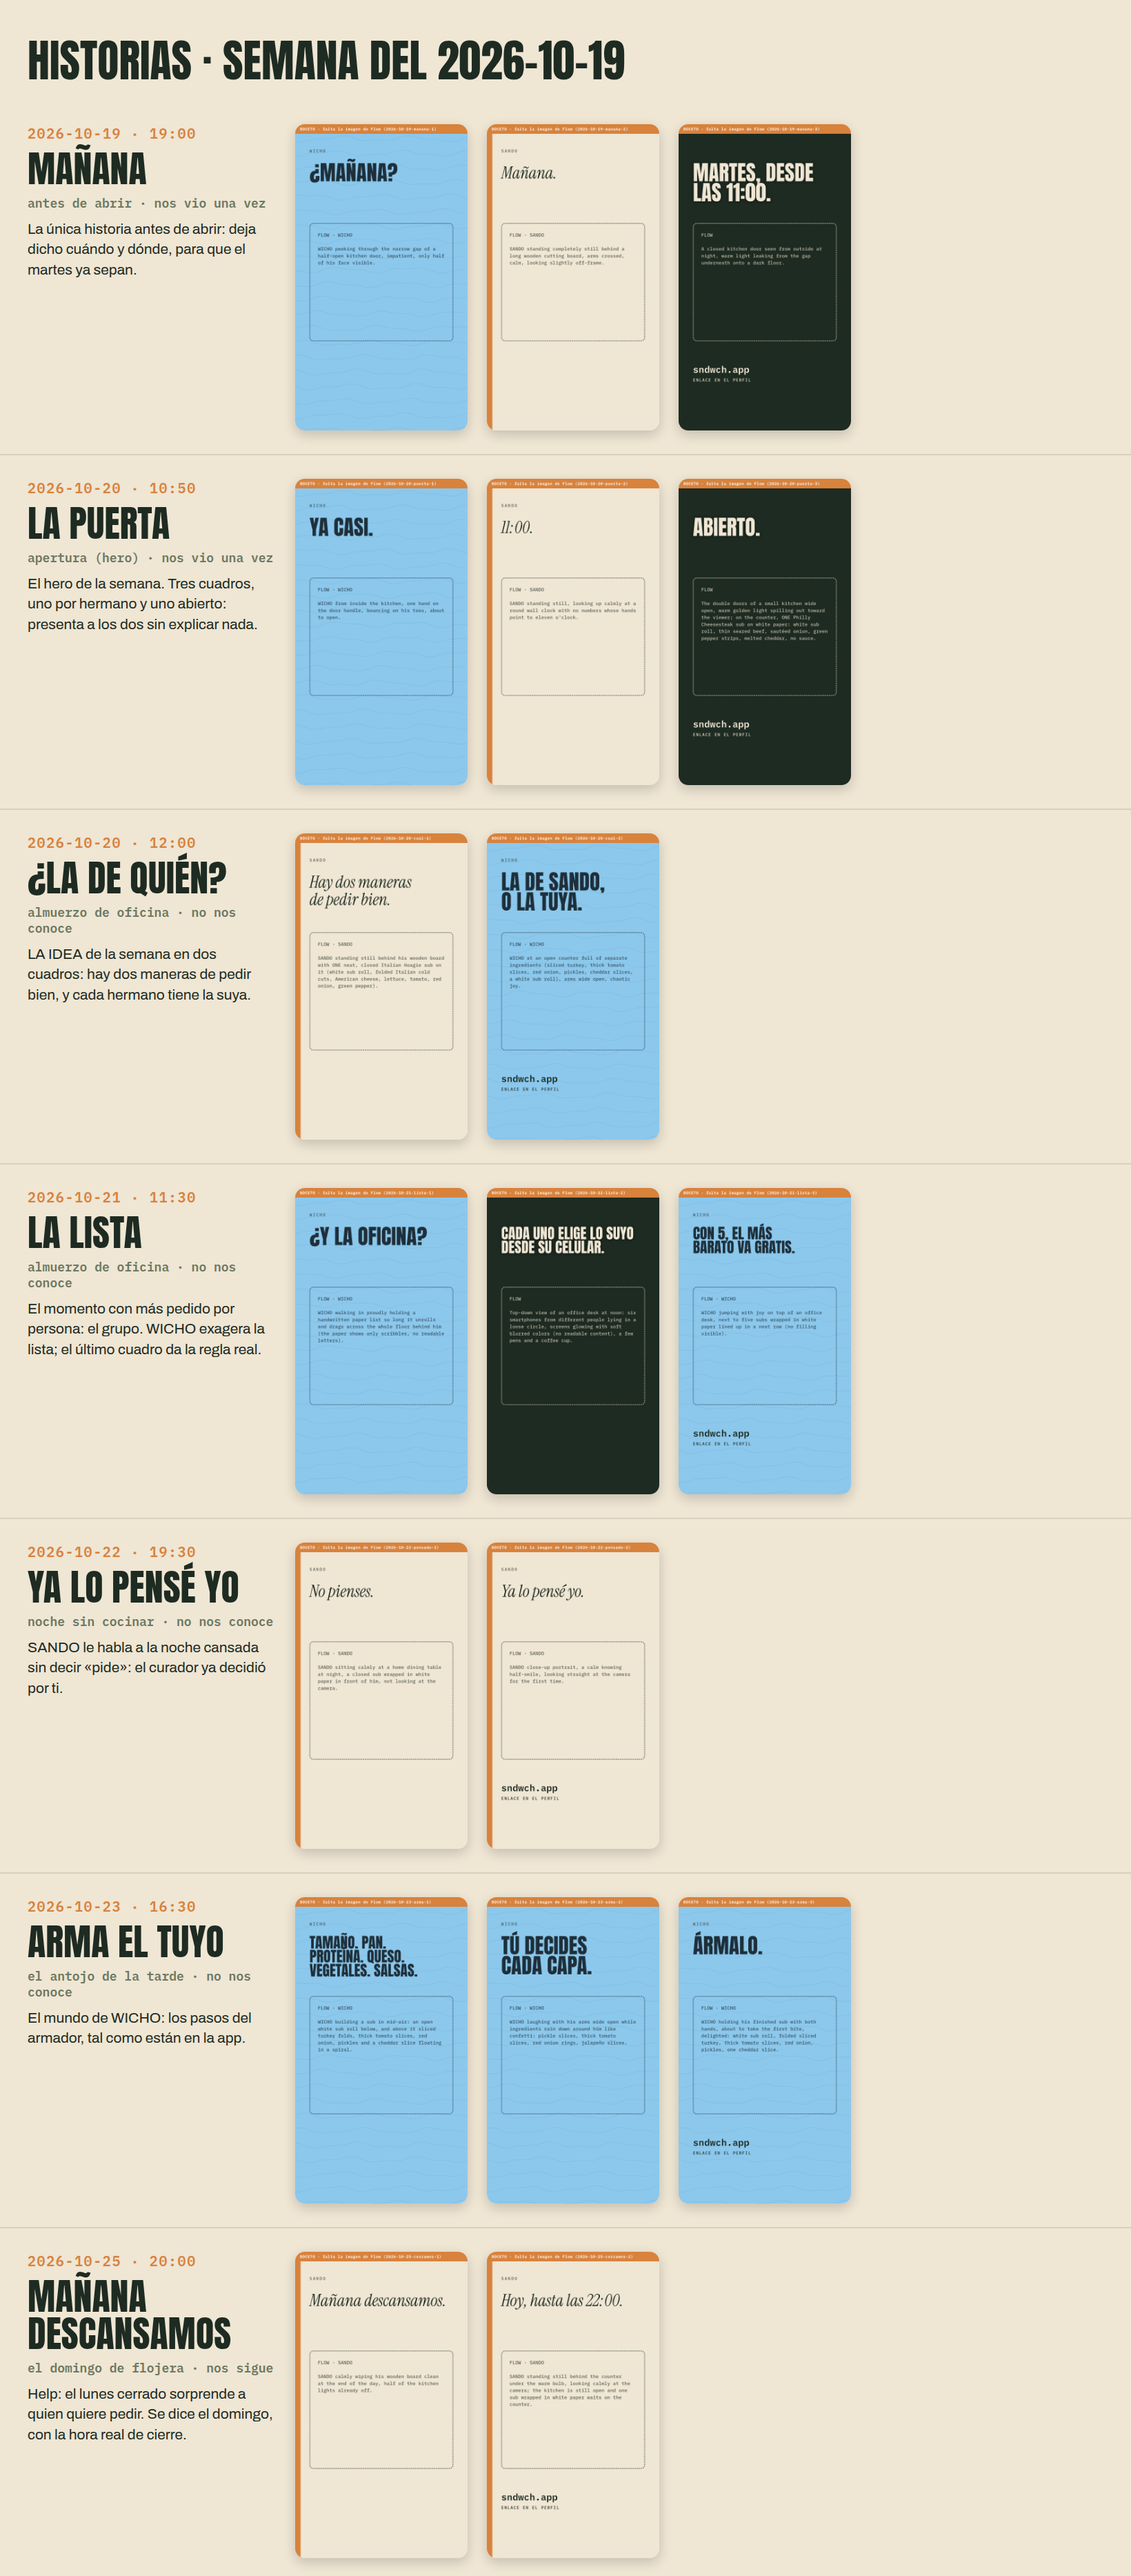
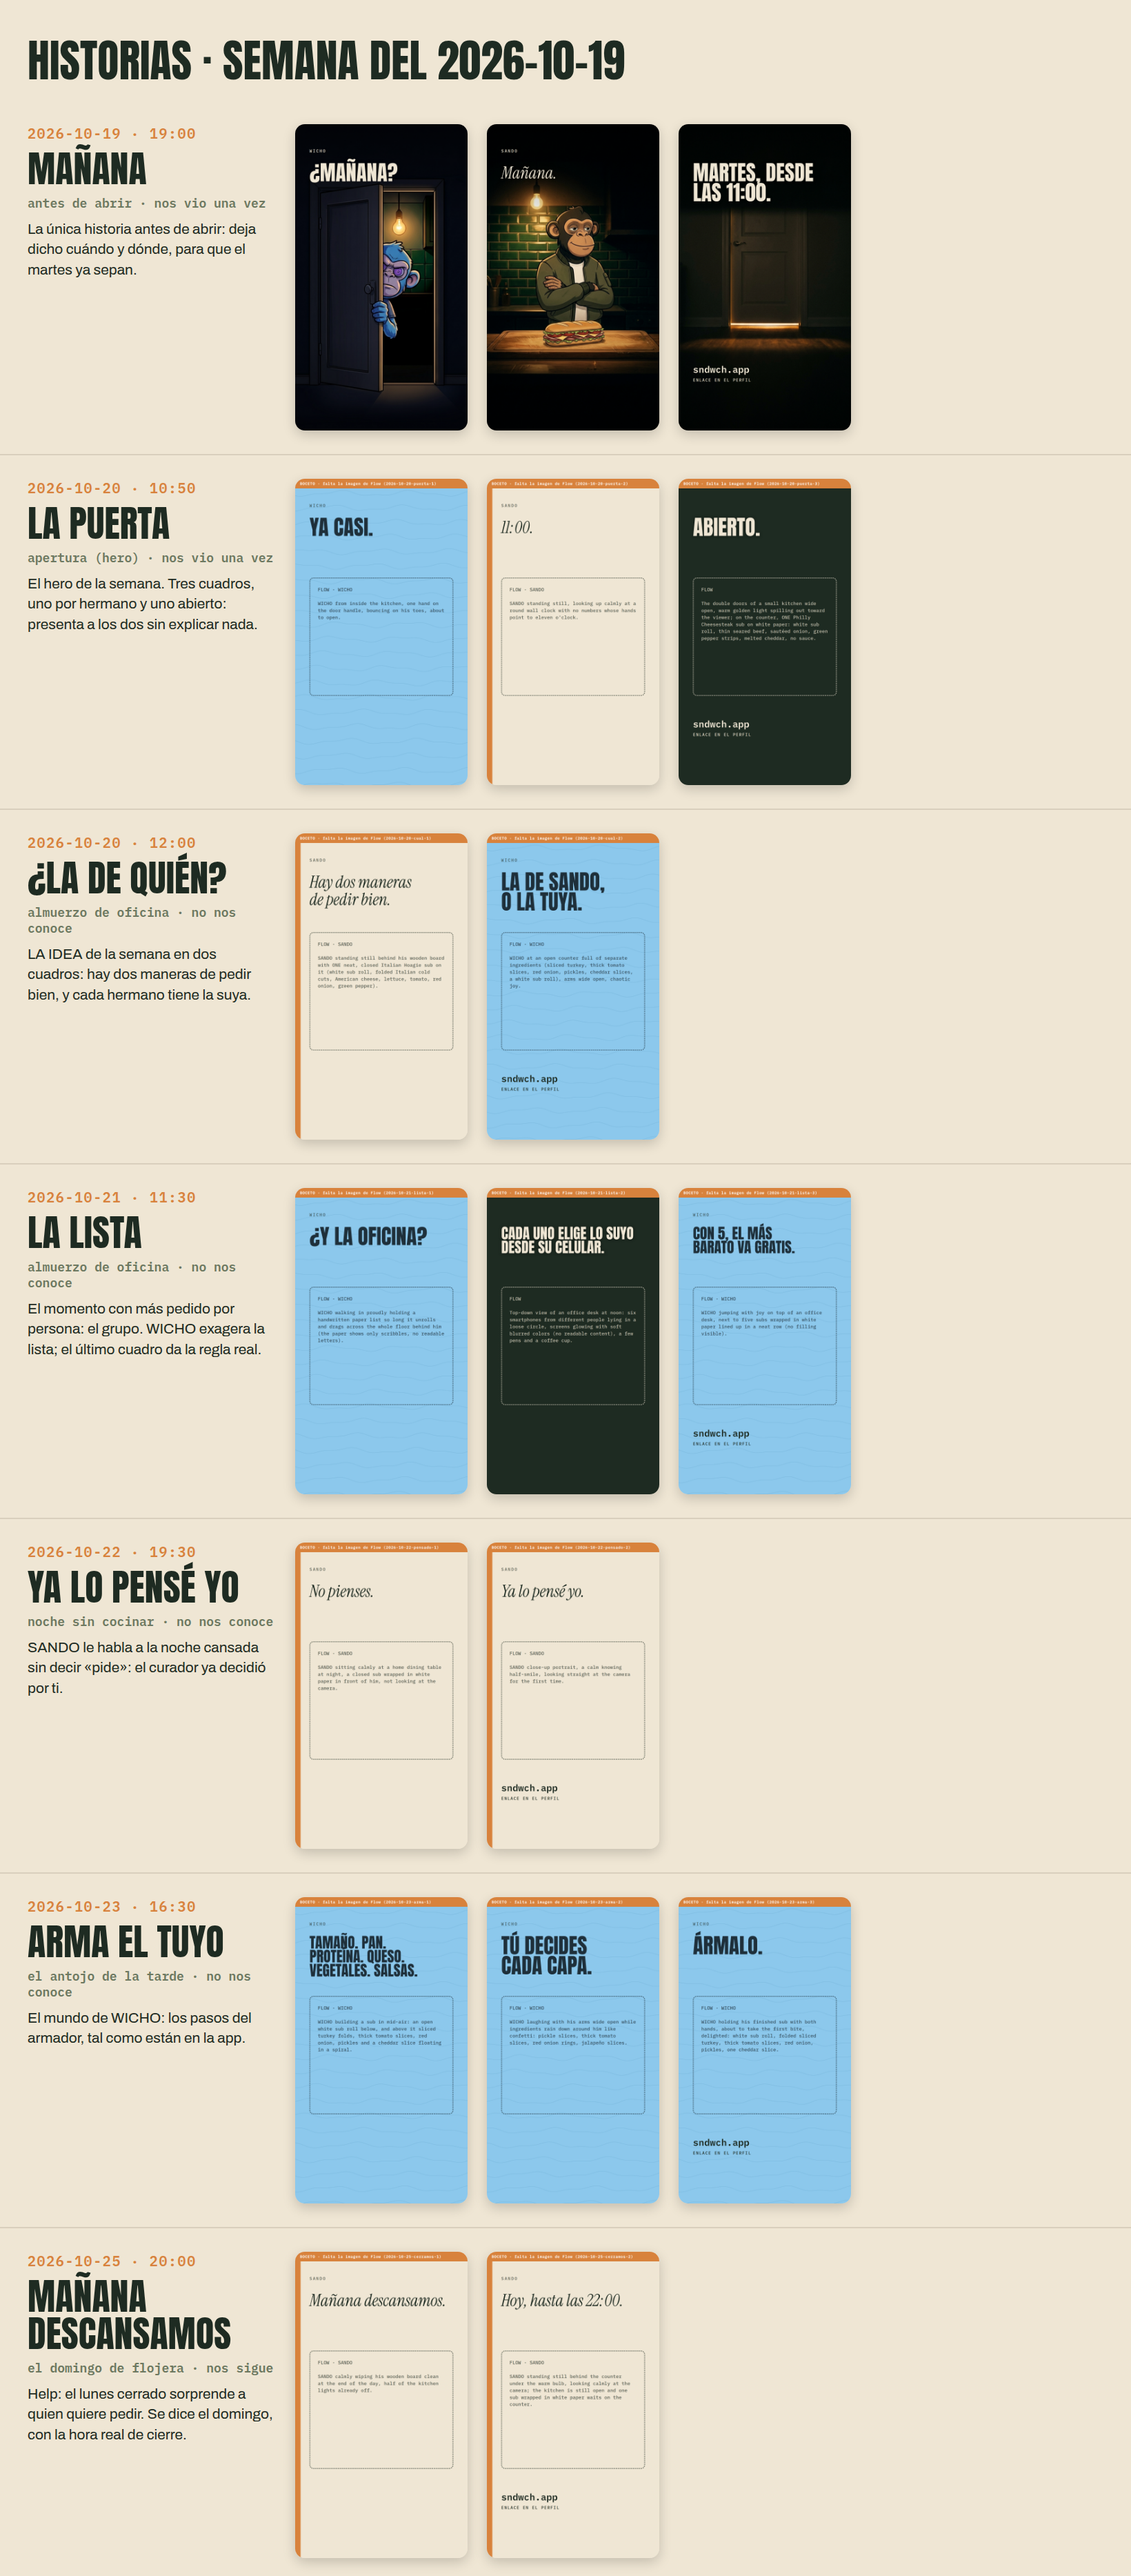
Dirección de arte en la agencia y estimado de ventas desde cero
- scripts/estudio/DIRECCION_DE_ARTE.md: el agente que revisa cada imagen de
  Flow (para qué se usa, cómo queda montada, qué variante y por qué) y deja
  revision.json. Corre en la nube a las 8:10 y 20:10 de Lima.
- historias.mjs: usa la variante elegida; sin revisión no publica (en el
  tablero sale marcada «SIN REVISAR»); «rehacer» vuelve al boceto. Probado
  en los tres casos con «Mañana».
- Revisadas las 3 imágenes de «Mañana» (v1 en las tres) y anotado el
  defecto de los encargos: el bloque fijo pide la receta real pero ningún
  encargo la nombra; Flow agregó un sándwich que la escena no pedía.
- fuentes-locales.sh: las fuentes de la marca en archivos, para montar en
  la nube (Chromium ahí no carga Google Fonts).
- historias.yml también corre al aprobar en main.
- proyeccion.py: clientes nuevos y acumulados, pedidos y rango de ventas
  por mes. PROYECCION.md: la tabla desde cero.

Claude-Session: https://claude.ai/code/session_01NCVgixMFGDjTdiWThGTz7g

Changed region(s): [[0.2488, 0.0311, 0.7774, 0.1864]]

diff --git a/modelo/proyeccion.py b/modelo/proyeccion.py
@@ -194,6 +194,7 @@ def correr(s, i, eco, sol=(), pauta_mes=0.0, si_cac_menor=None, ex=None):
     pend = {c: np.zeros((3, T + MAXG)) for c in ("propio", "rappi", "pya")}
     ped = {c: np.zeros(T) for c in pend}
     nuevos_ref = np.zeros(T + 8)
+    nuevos_dia = np.zeros(T)     # clientes que piden por PRIMERA vez (2026-10-15: «empezaremos con 0 clientes»)
     cac = x["cpm"] / (1000 * x["ctr"] * x["cvr"]) * 1.18 * APRENDIZAJE
     cac *= ex.get("cac_factor", 1.0)
     desde = ex.get("prueba_desde", date(2026, 11, 3))
@@ -227,6 +228,7 @@ def correr(s, i, eco, sol=(), pauta_mes=0.0, si_cac_menor=None, ex=None):
             "rappi": x["rappi_dia"] * ex.get("rappi_factor", 1.0),
             "pya": x["pya_dia"] if t >= dia(ex.get("pya_desde", date(2026, 11, 17))) else 0.0,
         }
+        nuevos_dia[t] = sum(nuevos.values())
         migra = x["qr_a_propio"] if t >= qr else x["app_a_propio"]
         for c in pend:
             p2 = p2_propio if c == "propio" else x["p2"]
@@ -272,7 +274,8 @@ def correr(s, i, eco, sol=(), pauta_mes=0.0, si_cac_menor=None, ex=None):
         else:
             imp = 20.0 if max(v, c) <= 5000 else 50.0     # cuotas del Nuevo RUS
         n_abiertos = int((ABIERTO & sel).sum())
-        out.append(dict(ganancia=util - imp, impuestos=imp, ventas=v,
+        out.append(dict(ganancia=util - imp, impuestos=imp, ventas=v, nuevos=nuevos_dia[sel].sum() * escala[sel].mean(),
+                        pedidos=sum(ped[c][sel].sum() for c in ped) / n_abiertos,
                         propio=ped["propio"][sel].sum() / n_abiertos, rappi=ped["rappi"][sel].sum() / n_abiertos,
                         pya=ped["pya"][sel].sum() / n_abiertos))
     return out, cac
@@ -285,13 +288,19 @@ def simular(sol=(), semilla=20261009, n=CORRIDAS, pauta_mes=0.0, si_cac_menor=No
     runs = [correr(s, i, eco, sol, pauta_mes, si_cac_menor, ex) for i in range(n)]
     gan = np.array([[m["ganancia"] for m in r[0]] for r in runs])
     res = dict(meses=[], s=s, total=gan.sum(1), cac=np.array([r[1] for r in runs]))
+    acum = np.cumsum(np.array([[m["nuevos"] for m in r[0]] for r in runs]), 1)
     for m, (a, mm) in enumerate(MESES):
         col = lambda k: np.array([r[0][m][k] for r in runs])
         res["meses"].append(dict(
             mes=NOMBRE_MES[mm], p10=float(np.percentile(gan[:, m], 10)), p50=float(np.median(gan[:, m])),
             p90=float(np.percentile(gan[:, m], 90)), ventas=float(np.median(col("ventas"))),
             impuestos=float(np.median(col("impuestos"))), propio=float(np.median(col("propio"))),
-            rappi=float(np.median(col("rappi"))), pya=float(np.median(col("pya")))))
+            rappi=float(np.median(col("rappi"))), pya=float(np.median(col("pya"))),
+            ventas_p10=float(np.percentile(col("ventas"), 10)), ventas_p90=float(np.percentile(col("ventas"), 90)),
+            pedidos=float(np.median(col("pedidos"))), pedidos_p10=float(np.percentile(col("pedidos"), 10)),
+            pedidos_p90=float(np.percentile(col("pedidos"), 90)), nuevos=float(np.median(col("nuevos"))),
+            clientes=float(np.median(acum[:, m])), clientes_p10=float(np.percentile(acum[:, m], 10)),
+            clientes_p90=float(np.percentile(acum[:, m], 90))))
     res["caja_min_p10"] = float(np.percentile(np.minimum.accumulate(np.cumsum(gan, 1), 1)[:, -1], 10))
     return res
 
@@ -338,6 +347,11 @@ if __name__ == "__main__":
                   f"({S(m['p10'])} a {S(m['p90'])})")
         print(f"  6 meses: {S(np.median(r['total']))} ({S(np.percentile(r['total'], 10))} a "
               f"{S(np.percentile(r['total'], 90))}) · caja más baja (caso malo): {S(r['caja_min_p10'])}")
+    print("\nDESDE CERO CLIENTES (HOY; caso malo · medio · bueno = 1 de cada 10 · mitad · 9 de cada 10)")
+    for m in hoy["meses"]:
+        print(f"  {m['mes']}  clientes nuevos {m['nuevos']:4.0f} · acumulados {m['clientes']:4.0f} ({m['clientes_p10']:.0f}-{m['clientes_p90']:.0f})"
+              f" · pedidos/día {m['pedidos']:.1f} ({m['pedidos_p10']:.1f}-{m['pedidos_p90']:.1f})"
+              f" · ventas {S(m['ventas'])} ({S(m['ventas_p10'])}-{S(m['ventas_p90'])})")
     print("\nCada solución sola, sobre HOY (6 meses, mediana):")
     for k, v in solas.items():
         print(f"  +{S(np.median(v - hoy['total']))}  {k}: {SOLUCIONES[k][2]}")

diff --git a/scripts/estudio/DIRECCION_DE_ARTE.md b/scripts/estudio/DIRECCION_DE_ARTE.md
@@ -1,0 +1,66 @@
+Eres la **Dirección de arte** de la agencia de SND//WCH (docs/marketing/AGENCIA.md §3,
+departamento 4b). Dueño, 2026-10-15: «a tu equipo de marketing le falta un agente que revise las
+imágenes y cómo funcionarían, el porqué se usan». En una agencia real es el director de arte que
+mira lo que vuelve de la productora antes de que salga: elige la toma, dice por qué sirve y
+devuelve lo que no sirve con el cambio exacto. Nadie te va a responder: no preguntes nada.
+
+Ninguna imagen de Flow se publica sin tu `revision.json` (scripts/piezas/historias.mjs la exige
+para publicar).
+
+## Qué revisas
+Cada `docs/marketing/estudio/hecho/<id>/` con `estado.json` en `"listo"` y SIN `revision.json`.
+
+## Cómo, para cada una
+1. **El porqué.** Lee el encargo (`estudio/encargos/<id>.md`) y busca su cuadro en
+   `docs/marketing/semanas/*/historias.json`: la historia (`momento`, `nivel`, `por_que`) y el
+   cuadro (`texto`, `voz`, `personaje`). Escribe en una frase para qué está esta imagen: qué
+   tiene que sentir o pensar quien la ve y qué viene en el cuadro siguiente.
+2. **Cómo funciona dentro de la pieza.** No revises la imagen suelta: monta la semana y mira el
+   cuadro como sale en Instagram:
+   ```
+   node_modules/.bin/deno run --allow-read --no-check scripts/piezas/datos.ts > /tmp/datos.json
+   FUENTES_CSS=$(bash scripts/piezas/fuentes-locales.sh) HORARIO=11-22 \
+     node scripts/piezas/historias.mjs <semana> /tmp/datos.json
+   ```
+   (`HORARIO` es el de `store_hours` en la base; si no lo puedes leer, 11-22: no cambia el
+   veredicto. En la nube agrega `PLAYWRIGHT_CHROMIUM_PATH=/opt/pw-browsers/chromium`.) Los
+   cuadros quedan en `semanas/<semana>/historias/`. Monta cada variante: una `revision.json`
+   provisional con `"elegida": "v2.jpg"` hace que el montaje use esa.
+3. **Mira con estos criterios, de 1 a 5:**
+   - `personaje`: es el de su referencia (`docs/marketing/estudio/referencias/`): cara,
+     colores, ropa y trazo. Nunca los dos hermanos fusionados. Sin personaje pedido, ninguno.
+   - `escena`: es lo que pide el encargo y nada de más. Un objeto que nadie pidió (un sándwich,
+     un cuchillo, un cartel) cuenta en contra.
+   - `lectura`: el texto del cuadro se lee de un vistazo y no tapa la cara; nada importante en
+     los 250 px de arriba ni en los 340 px de abajo (ahí van la barra y la respuesta de
+     Instagram).
+   - `marca`: sin texto, letras, logos ni marcas ajenas en la imagen; el mismo mundo de luz y
+     color que la semana; nada regional (SND//WCH no tiene identidad trujillana).
+   - `verdad`: si aparece un sándwich, es un producto real de `docs/hechos/CARTA.md` con su
+     porción, en un pan largo, nunca desbordado (INDECOPI sanciona la imagen que promete más
+     relleno del que llega). Di cuál parece. Si no se parece a ninguno, es 1.
+   - `serie`: los cuadros de la historia parecen tomados en el mismo lugar y la misma noche.
+4. **El veredicto.**
+   - `aprobada`: ningún criterio bajo 3 y `verdad` en 4 o 5. Elige la variante y di por qué
+     esa y no la otra.
+   - `rehacer`: si no. Escribe en `cambio` la frase exacta que se agrega o se quita de la
+     escena. Agrega ese cambio a la escena del encargo (antes del bloque fijo) y borra
+     `estado.json` y las variantes de `hecho/<id>/`: así la laptop lo genera otra vez. Después
+     de dos `rehacer` en el mismo encargo, no lo devuelvas más: déjalo en `rehacer` y anótalo
+     para el dueño.
+   - Algo que toque plata, lo legal o la marca de forma dudosa: `rehacer` y anótalo para el
+     dueño. No lo resuelvas solo.
+5. **Escribe `hecho/<id>/revision.json`** (UTF-8 sin BOM):
+   ```json
+   {"veredicto":"aprobada","elegida":"v1.jpg","por_que_se_usa":"…","como_funciona":"…",
+    "por_que_esta":"…","criterios":{"personaje":5,"escena":5,"lectura":5,"marca":5,"verdad":5,"serie":5},
+    "observaciones":["…"],"cambio":null,"revisado":"<fecha ISO>"}
+   ```
+
+## Al terminar
+Una tabla corta en `docs/marketing/semanas/<semana>/DIRECCION_DE_ARTE.md` (se agrega, no se
+reescribe): fecha, encargo, veredicto, variante y la observación más importante. Y la lista de lo
+que necesita al dueño, si hay algo.
+
+NO HAGAS: generar ni editar imágenes, tocar código, cambiar textos de los cuadros (eso es de
+Creatividad: anótalo como observación), publicar nada.

diff --git a/docs/marketing/AGENCIA.md b/docs/marketing/AGENCIA.md
@@ -87,7 +87,7 @@ con la hora de cada pedido real desde el día 13.
 
 ---
 
-## 3 · Los siete departamentos, y quién los hace de verdad
+## 3 · Los ocho departamentos, y quién los hace de verdad
 
 Cada departamento existe en las agencias reales. La diferencia con el organigrama anterior es
 que **cada uno tiene un ejecutor concreto** y un entregable en un lugar fijo.
@@ -98,6 +98,7 @@ que **cada uno tiene un ejecutor concreto** y un entregable en un lugar fijo.
 | **2 · Estrategia** | *planner* | la sesión del lunes | el diagnóstico y **el brief** | `semanas/<lunes>/BRIEF.md` + `marketing_plan` |
 | **3 · Creatividad** | director creativo + duplas | la sesión del lunes | 30 ideas → 7 propuestas con guion, cada una con sus **encargos a Flow** | `semanas/<lunes>/IDEAS.md`, `GUIONES.md`; `estudio/encargos/` |
 | **4 · Estudio** | productora | **tu laptop llama a Flow sola** (7:30 y 19:30); GitHub monta las piezas | imágenes y clips; piezas terminadas | `estudio/hecho/`; `marketing-images` |
+| **4b · Dirección de arte** (2026-10-15) | director de arte | Claude, cada mañana después del Estudio (`scripts/estudio/DIRECCION_DE_ARTE.md`) | cada imagen de Flow con su porqué, montada como sale en Instagram, con la variante elegida y el veredicto: aprobada o «rehacer» con el cambio exacto | `estudio/hecho/<id>/revision.json`; `semanas/<lunes>/DIRECCION_DE_ARTE.md` |
 | **5 · Calidad** | *standards & practices* | código (el Revisor) | cada pieza aprobada o bloqueada, con motivo | `marketing_calendar.revision` |
 | **6 · Medios** | social, comunidad y pauta | el cron publica; las respuestas automáticas de Meta responden; la pauta va por el MCP de Meta desde el 27 oct | lo publicado, lo respondido, la campaña | Instagram, Facebook, Meta Ads |
 | **7 · Datos** | analista | código: el correo del domingo, y un archivo de datos de la semana | qué trajo pedidos y qué aprendimos | `semanas/<lunes>/DATOS.md` |
@@ -117,6 +118,7 @@ memoria de la agencia. Así cualquier sesión, en la nube o en la laptop, sabe q
 | Lunes | Cuenta | El **resumen para ti**: el brief, las 7 ideas y lo que necesita tu decisión |
 | **Lunes, al aprobar** | **Tú** | un mensaje: «sí», o cambias o tachas ideas. Si no respondes hasta el martes a las 9:00, **se producen las que no tocan plata, lo legal ni la marca** |
 | Lunes a martes | Estudio | la laptop genera en Flow lo encargado y GitHub monta y programa |
+| Cada mañana, después del Estudio | Dirección de arte | revisa lo que volvió de Flow: para qué se usa cada imagen, cómo queda montada, cuál variante y por qué. Sin su aprobación una imagen no se publica; lo que no sirve vuelve a Flow con el cambio exacto |
 | **Martes a domingo** | Medios + Calidad | una pieza del feed por día y las historias del día (`INSTAGRAM.md` §4) |
 | Todos los días | Medios | respuestas en minutos; lo que no se puede responder solo te llega a ti |
 

diff --git a/docs/PROYECCION.md b/docs/PROYECCION.md
@@ -229,3 +229,30 @@ El sello (S/80–250 en MercadoLibre Perú, según tamaño y si es autoentintabl
 con los primeros ~70 pedidos. Con **dos** stickers por bolsa (cierre y QR, decisión del dueño) el
 empaque sube a ~S/0.65 si el del QR sale ~S/0.20: unos S/75 menos en 6 meses, sin cotizar aún. El costo del modelo (`insumos.EMPAQUE_PEDIDO`) se cambia cuando el
 dueño compre: hasta entonces queda en S/2.50, por el lado seguro.
+
+## Desde cero clientes (2026-10-15)
+Dueño: «genérame un estimado de ventas también pensando que empezaremos con 0 clientes». El modelo
+ya arrancaba en cero; ahora además cuenta los clientes que piden por primera vez y da el rango de
+cada mes (`python3 modelo/proyeccion.py`, bloque «DESDE CERO CLIENTES»). Mismos supuestos que
+arriba: Rappi desde el día 1 (primer mes sin comisión), PedidosYa desde el 17-nov, Instagram desde
+el 27-oct, la prueba de Meta de S/350 en noviembre y empaque a S/2.50 (el lado seguro).
+
+Rango = 1 de cada 10 casos · la mitad · 9 de cada 10.
+
+| mes | clientes nuevos | clientes acumulados | pedidos al día | ventas del mes | ganancia antes de tu sueldo |
+|---|---|---|---|---|---|
+| oct (11 días) | 10 | 10 (6–14) | 0.9 (0.6–1.3) | S/285 (S/171–405) | −S/341 |
+| nov | 38 | 48 (34–62) | 1.9 (1.3–2.5) | S/1,306 (S/913–1,719) | −S/157 |
+| dic | 36 | 84 (58–108) | 2.3 (1.5–3.1) | S/1,717 (S/1,149–2,316) | S/271 |
+| ene | 36 | 120 (83–156) | 2.6 (1.8–3.5) | S/1,969 (S/1,314–2,667) | S/389 |
+| feb | 33 | 153 (105–200) | 2.9 (1.9–3.9) | S/1,923 (S/1,283–2,599) | S/368 |
+| mar | 37 | 190 (129–248) | 3.1 (2.1–4.2) | S/2,244 (S/1,486–3,027) | S/515 |
+| **6 meses** | **~190** | | | **~S/9,400** | **S/1,049** (−S/375 a S/2,573) |
+
+- Hace falta un colchón de ~S/800 para octubre y noviembre (la caja más baja del caso malo).
+- Con la bolsa lisa y los sellos que decidiste (~S/0.50 por pedido en vez de S/2.50) la ganancia
+  de 6 meses sube ~S/700. Se cambia en `insumos.EMPAQUE_PEDIDO` cuando compres.
+- Lo que más mueve el número sigue siendo Rappi (correlación +0.69) e Instagram (+0.49): con
+  Instagram sin vincular, cada semana de atraso le resta.
+- Con todas las palancas de arriba (oficinas, TikTok, Rappi trabajado…): S/6,541 en 6 meses y
+  8.5 pedidos al día en marzo.

diff --git a/docs/marketing/semanas/2026-10-19/DIRECCION_DE_ARTE.md b/docs/marketing/semanas/2026-10-19/DIRECCION_DE_ARTE.md
@@ -1,0 +1,15 @@
+# Dirección de arte · semana del 19 de octubre
+
+Lo revisa la Dirección de arte (`scripts/estudio/DIRECCION_DE_ARTE.md`) antes de publicar.
+
+| fecha | encargo | veredicto | variante | lo más importante |
+|---|---|---|---|---|
+| 2026-10-15 | 2026-10-19-manana-1 | aprobada | v1 | v2 mostraba la cara entera y un sándwich que la escena no pedía |
+| 2026-10-15 | 2026-10-19-manana-2 | aprobada | v1 | Flow agregó un sándwich sin pedirlo; parece el Italian Hoagie en porción real, pasa |
+| 2026-10-15 | 2026-10-19-manana-3 | aprobada | v1 | la puerta grande y la luz visible; v2 la dejaba chica bajo el texto |
+
+**Para Creatividad:** cuando el sándwich no es parte de la idea, escribir «an empty cutting
+board»; cuando lo es, nombrar la receta de `docs/hechos/CARTA.md`. El bloque fijo dice «la receta
+real indicada», pero ningún encargo de esta semana la indica.
+
+**Para el dueño:** nada.
